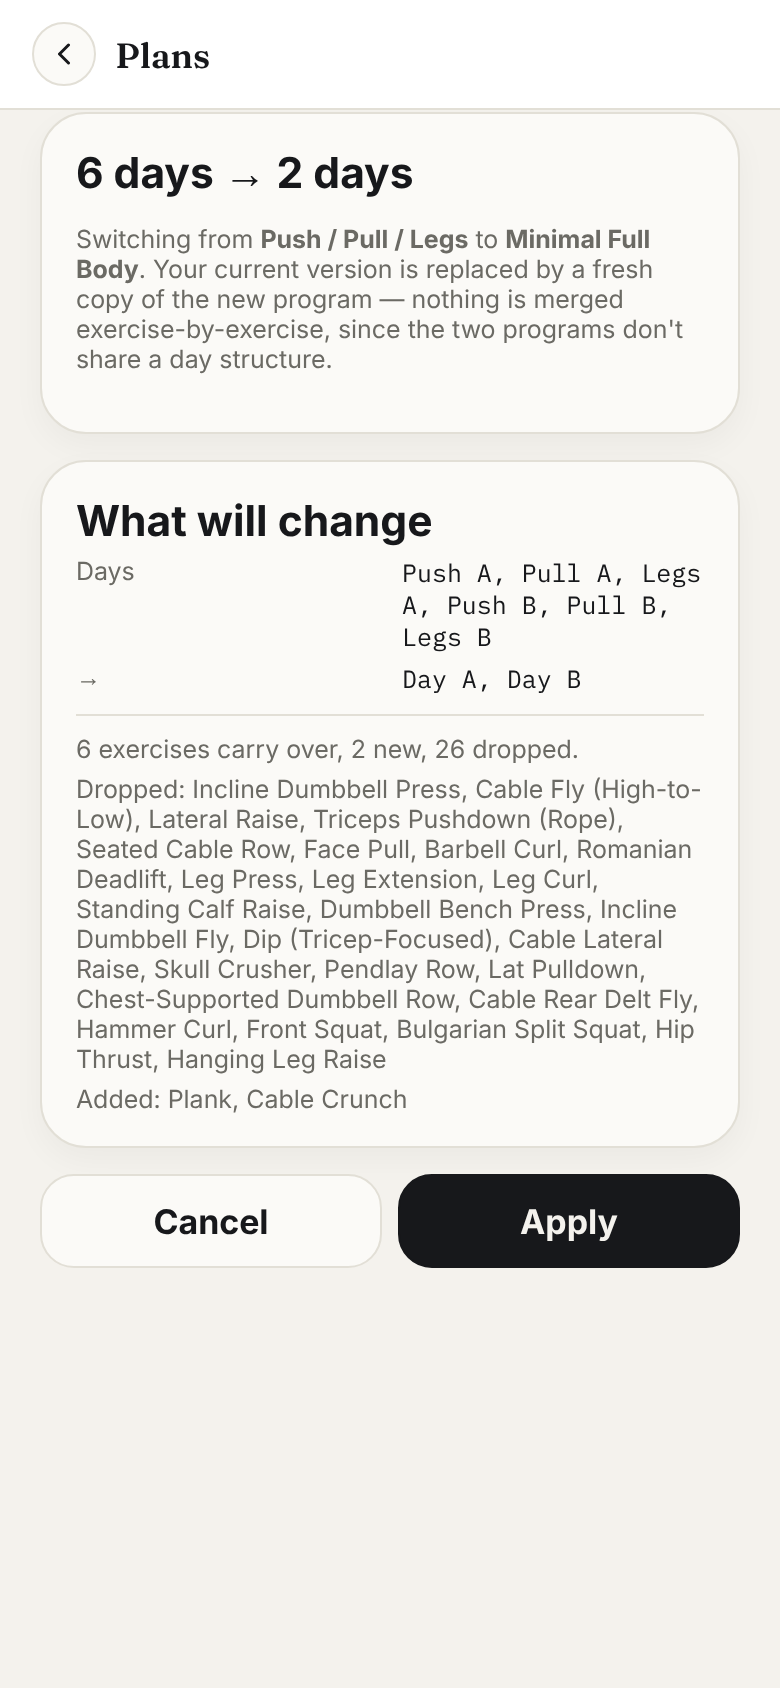
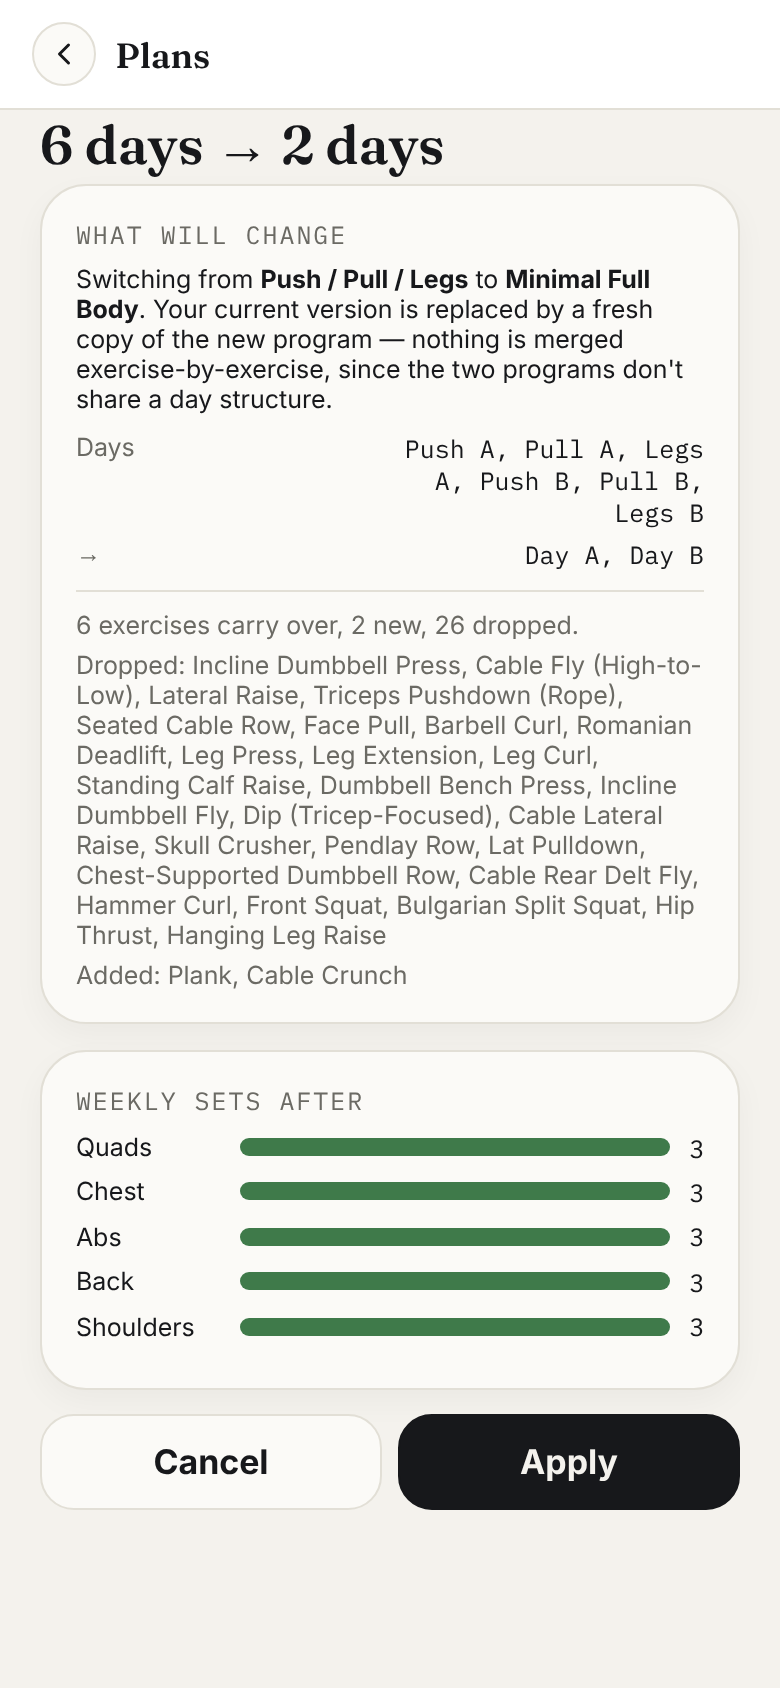
Fidelity pass: Section 2 (Plans) - Your version collapsed-first, change-days weekly-sets chart, reschedule menu restyle
Block Builder's "Your version" / "View active block" entry points now
default to all days collapsed (label + exercise count + Edit pill),
matching the mockup's two-level list-then-drill-in model instead of
auto-expanding day one's full exercise editor. The reassurance text
("You're editing your own copy...") now uses the banner component.

Change-days-per-week preview adds a real "Weekly sets after" bar chart
computed from the incoming program's own exercise-catalog body regions
(no invented numbers), alongside the existing kept/dropped/added diff.

Today's Lift reschedule menu restyled from plain stacked ghost buttons
into chevron list rows, and gained a genuine "Swap with <next day>"
option (exchanges today's and tomorrow's effective block-day index
through the existing schedule-override mechanism) alongside the
existing move/shorten/skip actions.

Claude-Session: https://claude.ai/code/session_015L9cyNh1v2vMK9ZcFbmR4a

Changed region(s): [[0.0308, 0.0616, 0.9538, 0.8009], [0.4923, 0.8318, 0.9538, 0.8934], [0.1846, 0.8626, 0.3385, 0.8934]]

diff --git a/index.html b/index.html
@@ -5009,6 +5009,9 @@ function todaysLiftSummaryHtml() {
   const dayMuscleChips = label === 'Start' && dayExercises?.length
     ? [...new Set(dayExercises.map((e) => e.muscle).filter(Boolean))].slice(0, 3)
     : [];
+  const tomorrowIdxForSwap = activeBlock ? effectiveBlockDayIndex(activeBlock, subtractDays(localDateStr(), -1), overrides) : null;
+  const tomorrowDayLabel = tomorrowIdxForSwap != null ? activeBlock.blockDays[tomorrowIdxForSwap]?.label : null;
+  const changeRow = (action, text) => `<div class="row" style="justify-content:space-between;align-items:center;padding:0.6rem 0;cursor:pointer;border-top:1px solid var(--border);" data-today-change="${action}"><span>${esc(text)}</span><span class="muted">&rsaquo;</span></div>`;
   return `
     <div class="card">
       <div class="row" style="justify-content:space-between;align-items:center;border-top:none;padding-top:0;">
@@ -5017,11 +5020,12 @@ function todaysLiftSummaryHtml() {
       </div>
       ${dayMuscleChips.length ? `<div class="chip-row" style="margin-top:0.5rem;">${dayMuscleChips.map((m) => `<span class="chip" style="cursor:default;">${esc(m.charAt(0).toUpperCase() + m.slice(1))}</span>`).join('')}</div>` : ''}
       ${todaysLiftChangeMenuOpen ? `
-        <div style="margin-top:0.5rem;border-top:1px solid var(--border);padding-top:0.5rem;">
-          <button class="btn btn-sm btn-ghost" style="width:100%;text-align:left;" data-today-change="move_tomorrow">Move to tomorrow</button>
-          <button class="btn btn-sm btn-ghost" style="width:100%;text-align:left;margin-top:0.3rem;" data-today-change="shorten">Shorten (mark as shortened)</button>
-          <button class="btn btn-sm btn-ghost" style="width:100%;text-align:left;margin-top:0.3rem;" data-today-change="skip">Skip this workout</button>
-          <button class="btn btn-sm btn-ghost" style="width:100%;text-align:left;margin-top:0.3rem;" id="todaysLiftChangeCancelBtn">Cancel</button>
+        <div style="margin-top:0.3rem;">
+          ${changeRow('move_tomorrow', 'Move to tomorrow')}
+          ${tomorrowDayLabel ? changeRow('swap_tomorrow', `Swap with ${tomorrowDayLabel}`) : ''}
+          ${changeRow('shorten', 'Shorten (mark as shortened)')}
+          <div style="border-top:1px solid var(--border);"><span class="small" style="color:var(--danger);cursor:pointer;display:block;padding:0.6rem 0;" data-today-change="skip">Skip this workout</span></div>
+          <button class="btn btn-sm btn-ghost" style="width:100%;margin-top:0.3rem;" id="todaysLiftChangeCancelBtn">Cancel</button>
         </div>
       ` : `
       <div class="row" style="justify-content:${canReschedule ? 'space-between' : (!hasPlanned && ctx.empty ? 'space-between' : 'flex-end')};align-items:center;border-top:none;padding-top:0.5rem;">
@@ -12525,6 +12529,12 @@ async function applyScheduleChange(action) {
     overrides[tomorrow] = { action: 'moved_in', dayIndex: todayIdx };
   } else if (action === 'shorten') {
     overrides[today] = { ...(overrides[today] || {}), shortened: true };
+  } else if (action === 'swap_tomorrow') {
+    const todayIdx = effectiveBlockDayIndex(block, today, overrides);
+    const tomorrowIdx = effectiveBlockDayIndex(block, tomorrow, overrides);
+    if (todayIdx == null || tomorrowIdx == null) return;
+    overrides[today] = { action: 'moved_in', dayIndex: tomorrowIdx };
+    overrides[tomorrow] = { action: 'moved_in', dayIndex: todayIdx };
   }
   const { error } = await supabase.from('profiles').update({ schedule_overrides_this_week: overrides }).eq('id', state.user.id);
   if (error) { toast('Could not change today’s schedule: ' + error.message); return; }
@@ -14667,7 +14677,7 @@ let blockBuilderDays = 4;
 let blockBuilderEquipment = [];
 let blockBuilderAvoid = [];
 let blockBuilderPreview = null;
-let blockBuilderExpandedDayIndex = 0;
+let blockBuilderExpandedDayIndex = -1;
 let blockBuilderViewingActive = false;
 let blockBuilderStarting = false;
 // Manual per-instance overrides UI state (substitute/add/remove exercise,
@@ -14687,7 +14697,7 @@ function resetBlockBuilderState() {
   blockBuilderEquipment = [];
   blockBuilderAvoid = [];
   blockBuilderPreview = null;
-  blockBuilderExpandedDayIndex = 0;
+  blockBuilderExpandedDayIndex = -1;
   blockBuilderViewingActive = false;
   blockSwapPickerFor = null;
   blockExerciseRemoveConfirm = null;
@@ -14849,7 +14859,7 @@ function wireBlockBuilderSummaryEvents(panel) {
   const viewBtn = $('#blockBuilderViewBtn', panel);
   if (viewBtn) viewBtn.addEventListener('click', () => {
     blockBuilderPreview = state.profile.active_training_block;
-    blockBuilderExpandedDayIndex = 0;
+    blockBuilderExpandedDayIndex = -1;
     blockBuilderViewingActive = true;
     blockBuilderStep = 3;
     showBlockBuilder = true;
@@ -14992,9 +15002,12 @@ function blockPickerResultsHtml(candidates) {
 function blockDayCardHtml(day, index, isExpanded) {
   if (!isExpanded) {
     return `<div class="card" data-block-day-toggle="${index}" style="cursor:pointer;margin-bottom:0.6rem;">
-      <div class="row" style="justify-content:space-between;align-items:center;">
-        <strong>${esc(day.label)}</strong>
-        <span class="muted small">${day.exercises.length} exercise${day.exercises.length === 1 ? '' : 's'}</span>
+      <div class="row" style="justify-content:space-between;align-items:center;flex-wrap:nowrap;">
+        <div style="min-width:0;">
+          <strong>${esc(day.label)}</strong>
+          <p class="muted small" style="margin:0.1rem 0 0;">${day.exercises.length} exercise${day.exercises.length === 1 ? '' : 's'}</p>
+        </div>
+        <span class="chip" style="flex:none;min-width:0;cursor:pointer;">Edit</span>
       </div>
     </div>`;
   }
@@ -15172,8 +15185,9 @@ function blockBuilderStep3Html() {
   const focusOpt = BLOCK_FOCUS_OPTIONS.find((o) => o.key === block.focus);
   return `<div class="card">
     ${isProgram ? `
-      <h3>${esc(block.sourceProgramName)} &middot; Your version${block.deloadActive ? ' &middot; Deload week' : ''}</h3>
-      <p class="muted small" style="margin-top:-0.5rem;">Based on the ${esc(block.sourceProgramName)} program. The original template is untouched — this is your own editable copy.${block.deloadActive ? ' Sets below are reduced to about 60% for this deload week; End deload restores your normal sets exactly as they were.' : ''}</p>
+      <div class="display" style="font-size:1.5rem;">${esc(block.sourceProgramName)}${block.deloadActive ? ' &middot; Deload week' : ''}</div>
+      <p class="muted small" style="margin:0.1rem 0 0.6rem;">Your version &middot; based on the ${esc(block.sourceProgramName)} program</p>
+      <div class="banner">You're editing your own copy. The original stays safe, and you can reset any time.${block.deloadActive ? ' Sets below are reduced to about 60% for this deload week; End deload restores your normal sets exactly as they were.' : ''}</div>
       <div class="chip-row" style="margin-top:0.5rem;">
         <span class="mono muted small">${block.days} days/week</span>
       </div>
@@ -15250,7 +15264,7 @@ function wireBlockBuilderStep3(panel) {
     if (error) { toast('Could not reset: ' + error.message); return; }
     state.profile = { ...state.profile, active_training_block: fresh };
     blockBuilderPreview = fresh;
-    blockBuilderExpandedDayIndex = 0;
+    blockBuilderExpandedDayIndex = -1;
     toast('Reset to the original program.');
     renderLiftsTab();
   });
@@ -15351,7 +15365,7 @@ function renderPlansHub(panel) {
   if (viewActiveBtn) viewActiveBtn.addEventListener('click', () => {
     showPlansHub = false;
     blockBuilderPreview = state.profile.active_training_block;
-    blockBuilderExpandedDayIndex = 0;
+    blockBuilderExpandedDayIndex = -1;
     blockBuilderViewingActive = true;
     blockBuilderStep = 3;
     showBlockBuilder = true;
@@ -15397,21 +15411,42 @@ function renderChangeDaysPreview(panel) {
   const dropped = [...oldExerciseNames].filter((n) => !newExerciseNames.has(n));
   const added = [...newExerciseNames].filter((n) => !oldExerciseNames.has(n));
 
+  // Weekly sets per body region for the incoming program, from real
+  // exercise-catalog data (not invented numbers) - mirrors the mockup's
+  // "Weekly sets after" bars.
+  const setsByRegion = {};
+  target.schedule.forEach((day) => day.exercises.forEach((ex) => {
+    const region = exerciseDefFor(ex.name)?.body_region || DEFAULT_BODY_REGION[ex.name];
+    if (!region) return;
+    const label = BODY_REGION_LABELS[region] || region;
+    setsByRegion[label] = (setsByRegion[label] || 0) + ex.sets;
+  }));
+  const maxSets = Math.max(1, ...Object.values(setsByRegion));
+
   panel.innerHTML = `
+    <div class="display" style="font-size:1.69rem;margin-bottom:0.2rem;">${active.days} days &rarr; ${target.days} days</div>
     <div class="card">
-      <h3 style="margin-top:0;">${active.days} days &rarr; ${target.days} days</h3>
-      <p class="muted small">Switching from <strong>${esc(active.sourceProgramName || active.focus)}</strong> to <strong>${esc(target.name)}</strong>. Your current version is replaced by a fresh copy of the new program — nothing is merged exercise-by-exercise, since the two programs don't share a day structure.</p>
-    </div>
-    <div class="card">
-      <h3 style="margin-top:0;">What will change</h3>
-      <div class="row" style="justify-content:space-between;"><span class="muted small">Days</span><span class="mono small">${esc(oldLabels.join(', '))}</span></div>
-      <div class="row" style="justify-content:space-between;margin-top:0.3rem;"><span class="muted small">&rarr;</span><span class="mono small">${esc(newLabels.join(', '))}</span></div>
+      <div class="mono small" style="text-transform:uppercase;letter-spacing:0.08em;color:var(--text-dim);">What will change</div>
+      <p class="small" style="margin:0.4rem 0 0;">Switching from <strong>${esc(active.sourceProgramName || active.focus)}</strong> to <strong>${esc(target.name)}</strong>. Your current version is replaced by a fresh copy of the new program — nothing is merged exercise-by-exercise, since the two programs don't share a day structure.</p>
+      <div class="row" style="justify-content:space-between;margin-top:0.6rem;"><span class="muted small">Days</span><span class="mono small" style="text-align:right;">${esc(oldLabels.join(', '))}</span></div>
+      <div class="row" style="justify-content:space-between;margin-top:0.3rem;"><span class="muted small">&rarr;</span><span class="mono small" style="text-align:right;">${esc(newLabels.join(', '))}</span></div>
       <div style="margin-top:0.6rem;border-top:1px solid var(--border);padding-top:0.6rem;">
         <p class="muted small" style="margin:0;">${kept.length} exercise${kept.length === 1 ? '' : 's'} carry over, ${added.length} new, ${dropped.length} dropped.</p>
         ${dropped.length ? `<p class="muted small" style="margin:0.3rem 0 0;">Dropped: ${esc(dropped.join(', '))}</p>` : ''}
         ${added.length ? `<p class="muted small" style="margin:0.3rem 0 0;">Added: ${esc(added.join(', '))}</p>` : ''}
       </div>
     </div>
+    ${Object.keys(setsByRegion).length ? `<div class="card">
+      <div class="mono small" style="text-transform:uppercase;letter-spacing:0.08em;color:var(--text-dim);margin-bottom:0.5rem;">Weekly sets after</div>
+      ${Object.entries(setsByRegion).sort((a, b) => b[1] - a[1]).map(([label, sets]) => `
+        <div class="row" style="align-items:center;gap:0.6rem;margin-bottom:0.4rem;">
+          <span class="small" style="flex:none;min-width:4.5rem;">${esc(label)}</span>
+          <div style="flex:1;height:0.57rem;background:var(--surface-3);border-radius:0.3rem;overflow:hidden;">
+            <div style="width:${Math.round((sets / maxSets) * 100)}%;height:100%;background:var(--success);"></div>
+          </div>
+          <span class="mono small" style="flex:none;min-width:0;">${sets}</span>
+        </div>`).join('')}
+    </div>` : ''}
     <div class="row" style="gap:0.5rem;">
       <button class="btn" id="changeDaysCancelBtn" style="flex:1;">Cancel</button>
       <button class="btn btn-primary" id="changeDaysApplyBtn" style="flex:1;">Apply</button>
@@ -15484,7 +15519,7 @@ async function startProgramTemplate(template, goToEditor) {
   showPlansHub = false;
   if (goToEditor) {
     blockBuilderPreview = block;
-    blockBuilderExpandedDayIndex = 0;
+    blockBuilderExpandedDayIndex = -1;
     blockBuilderViewingActive = true;
     blockBuilderStep = 3;
     showBlockBuilder = true;
